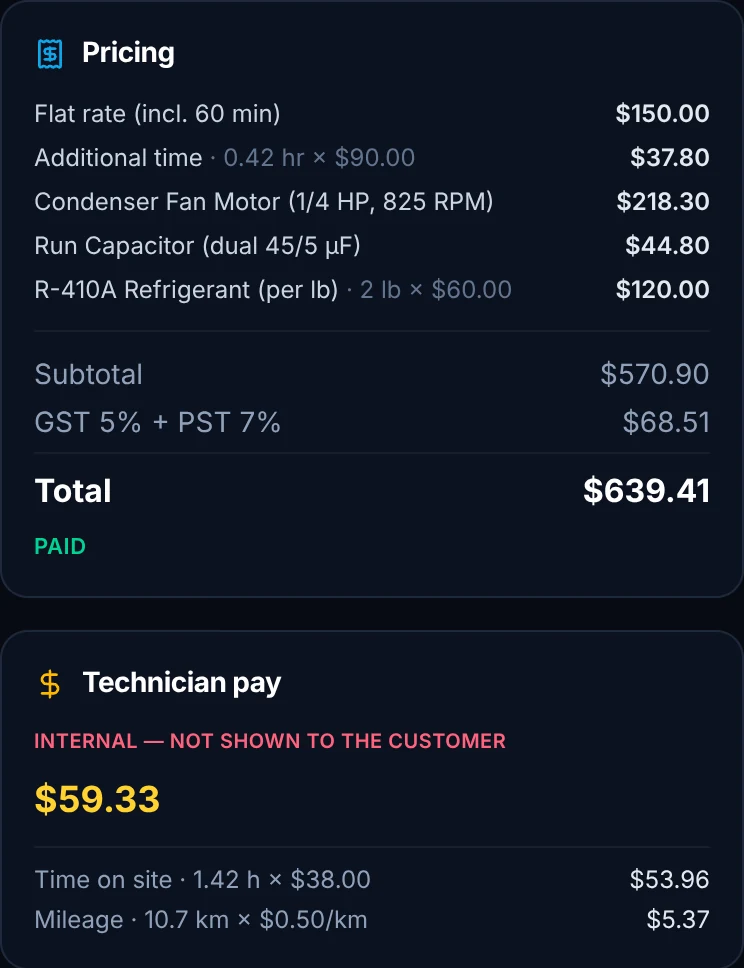
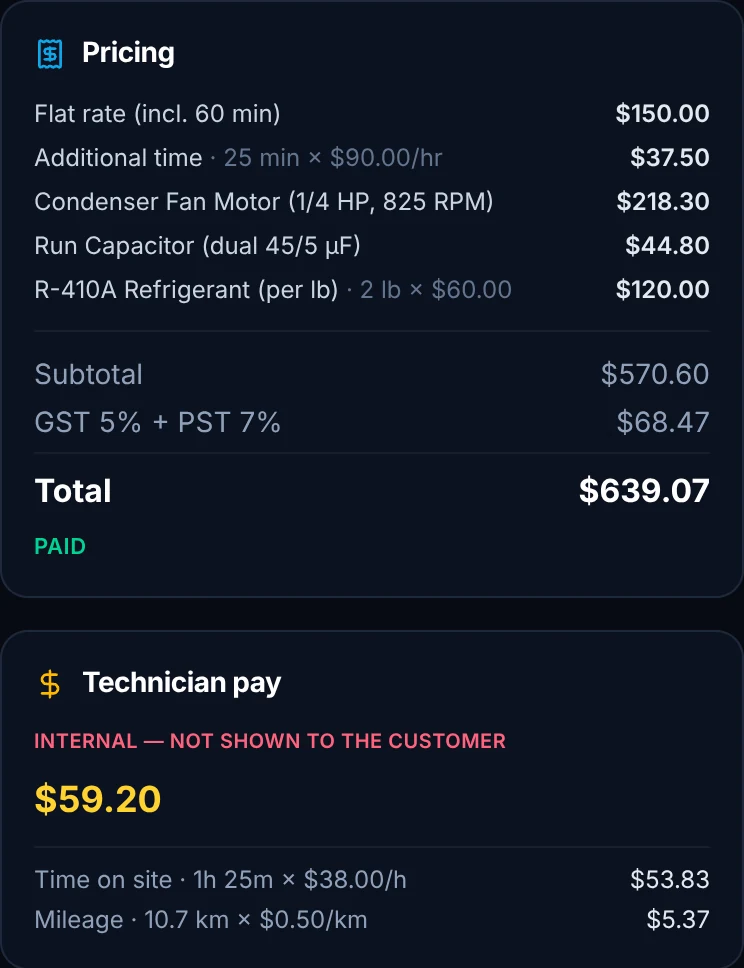
Bill and pay time to the exact minute, for every company
Time was rounded to two decimals of an hour before it was multiplied by
the rate, so 25 minutes at $90/h billed 0.42 h = $37.80 instead of
$37.50, and tech pay drifted the same way. Customer time lines (flat
fee overage, hourly, first hour / additional time) and hourly tech pay
now use minutes / 60 x rate, rounded once to the cent. Receipt lines
read "25 min x $90.00/hr" so the arithmetic still shows; the job
report's tech pay reads "1h 25m x $38.00/h".

Existing completed jobs keep their stored totals; new and recomputed
jobs use the exact rule. Features page pricing screens recaptured.

Claude-Session: https://claude.ai/code/session_01NbP46AD6FSM3TXQFTLdn6c

diff --git a/packages/web/src/shared/pricing.ts b/packages/web/src/shared/pricing.ts
@@ -63,6 +63,9 @@ export interface PriceLineItem {
   unit: string;
   rate: number;
   amount: number;
+  /** The unit `rate` is quoted in when it differs from `unit` — time is
+   *  counted in minutes but priced per hour ("25 min × $90.00/hr"). */
+  per?: string;
 }
 
 export interface PriceResult {
@@ -71,6 +74,18 @@ export interface PriceResult {
 }
 
 /** Compute the client subtotal (pre-tax) given a rate model + actuals. */
+/**
+ * A line for time billed at an hourly rate. Time is billed to the exact
+ * minute: the amount is minutes / 60 x rate, rounded once to the cent, and the
+ * line shows the minutes and the hourly rate ("25 min × $90.00/hr = $37.50").
+ * Rounding the hours first (0.42 h x $90 = $37.80) overcharged by up to a few
+ * cents per hour of rate on every job.
+ */
+function timeLine(label: string, minutes: number, hourlyRate: number): PriceLineItem {
+  const cents = (n: number) => Math.round(n * 100) / 100;
+  return { label, qty: cents(minutes), unit: "min", rate: hourlyRate, per: "hr", amount: cents((minutes / 60) * hourlyRate) };
+}
+
 export function computeSubtotal(
   rm: RateModel,
   actualMinutes: number,
@@ -104,25 +119,21 @@ export function computeSubtotal(
     if (billableMin > 0) {
       const firstMin = Math.min(billableMin, 60);
       const addlMin = Math.max(0, billableMin - 60);
-      const firstHrs = round(firstMin / 60);
-      const addlHrs = round(addlMin / 60);
       if (firstHrRate > 0 && firstMin > 0) {
-        items.push({ label: "First hour", qty: firstHrs, unit: "hr", rate: firstHrRate, amount: round(firstHrs * firstHrRate) });
+        items.push(timeLine("First hour", firstMin, firstHrRate));
       }
       if (addlHrRate > 0 && addlMin > 0) {
-        items.push({ label: "Additional time", qty: addlHrs, unit: "hr", rate: addlHrRate, amount: round(addlHrs * addlHrRate) });
+        items.push(timeLine("Additional time", addlMin, addlHrRate));
       } else if (addlMin > 0 && firstHrRate > 0) {
         // fallback: use firstHrRate for additional if additionalHourRate not set
-        items.push({ label: "Additional time", qty: addlHrs, unit: "hr", rate: firstHrRate, amount: round(addlHrs * firstHrRate) });
+        items.push(timeLine("Additional time", addlMin, firstHrRate));
       }
     }
   } else if (rm.timeRate > 0) {
     // simple flat hourly / per-minute
     const billableMin = Math.max(0, actualMinutes - rm.includedMinutes);
     if (rm.timeUnit === "hour") {
-      const hrs = round(billableMin / 60);
-      if (hrs > 0)
-        items.push({ label: "Additional time", qty: hrs, unit: "hr", rate: rm.timeRate, amount: round(hrs * rm.timeRate) });
+      if (billableMin > 0) items.push(timeLine("Additional time", billableMin, rm.timeRate));
     } else {
       if (billableMin > 0)
         items.push({ label: "Additional time", qty: round(billableMin), unit: "min", rate: rm.timeRate, amount: round(billableMin * rm.timeRate) });

diff --git a/packages/web/src/shared/__tests__/pricing.test.ts b/packages/web/src/shared/__tests__/pricing.test.ts
@@ -30,8 +30,7 @@ describe("computeSubtotal — time overage", () => {
     const r = computeSubtotal(rm({ flatRate: 50, includedMinutes: 60, timeRate: 120, timeUnit: "hour" }), 90, 0);
     expect(r.subtotal).toBe(110);
     const time = r.items.find((i) => i.label === "Additional time")!;
-    expect(time.qty).toBe(0.5);
-    expect(time.amount).toBe(60);
+    expect(time).toMatchObject({ qty: 30, unit: "min", rate: 120, per: "hr", amount: 60 });
   });
 
   it("bills per-minute overage when timeUnit is minute", () => {
@@ -68,6 +67,24 @@ describe("computeSubtotal — minimum charge floor", () => {
     const r = computeSubtotal(rm({ flatRate: 200, minCharge: 75 }), 0, 0);
     expect(r.subtotal).toBe(200);
     expect(r.items.find((i) => i.label === "Minimum charge adjustment")).toBeUndefined();
+  });
+});
+
+describe("computeSubtotal — billed to the exact minute", () => {
+  it("bills 25 minutes at $90/hr as $37.50, not 0.42 h ($37.80)", () => {
+    const r = computeSubtotal(rm({ flatRate: 150, includedMinutes: 60, timeRate: 90, timeUnit: "hour" }), 85, 0);
+    expect(r.items.find((i) => i.label === "Additional time")).toMatchObject({ qty: 25, unit: "min", amount: 37.5 });
+    expect(r.subtotal).toBe(187.5);
+  });
+  it("bills tiered first hour and additional time by the minute", () => {
+    const r = computeSubtotal(rm({ firstHourRate: 150, additionalHourRate: 95 }), 85, 0);
+    expect(r.items.find((i) => i.label === "First hour")!.amount).toBe(150);
+    // 25 min x $95/h = 39.5833 -> $39.58 (0.42 h would have been $39.90)
+    expect(r.items.find((i) => i.label === "Additional time")!.amount).toBe(39.58);
+  });
+  it("prorates a short first hour by the minute", () => {
+    const r = computeSubtotal(rm({ firstHourRate: 100 }), 20, 0);
+    expect(r.subtotal).toBe(33.33);
   });
 });
 

diff --git a/packages/web/src/web/site/content/features.ts b/packages/web/src/web/site/content/features.ts
@@ -158,7 +158,7 @@ export const screens: Record<string, Screen[]> = {
   price: [
     { src: S("price-rate"), w: 1120, h: 794, span: 6, alt: "ArrivePing customer pricing set to a flat fee: $150 that includes 60 minutes, then $90 an hour, with an optional mileage charge per km.", caption: "Customer pricing: a $150 service fee that includes the first hour, then $90 an hour." },
     { src: S("price-techpay"), w: 1120, h: 598, span: 6, alt: "ArrivePing technician pay for the same workflow: the technician's own hourly rate plus $0.50 per km of mileage, round trip.", caption: "Technician pay, set separately: their own hourly rate plus mileage." },
-    { src: S("price-job"), w: 744, h: 968, span: 5, alt: "A finished ArrivePing job: $150 flat rate including 60 minutes, $37.80 additional time, parts, total $639.41 paid, and technician pay of $59.33 split into time on site and mileage.", caption: "The finished job: billed by the rule, paid, and the technician's pay line by line." },
+    { src: S("price-job"), w: 744, h: 968, span: 5, alt: "A finished ArrivePing job: $150 flat rate including 60 minutes, 25 minutes of additional time at $90 an hour ($37.50), parts, total $639.07 paid, and technician pay of $59.20 split into time on site and mileage.", caption: "The finished job: billed by the rule, paid, and the technician's pay line by line." },
     { src: S("price-payouts"), w: 1800, h: 802, span: 7, alt: "ArrivePing technician payouts for the week with hourly, mileage, flat and per-unit pay for each technician, and one job's breakdown expanded.", caption: "Payouts: hourly, mileage, flat and per-unit pay, job by job." },
   ],
   start: [

diff --git a/packages/web/src/web/pages/admin/job-report.tsx b/packages/web/src/web/pages/admin/job-report.tsx
@@ -401,7 +401,7 @@ export default function JobReportPage() {
                     <span className="text-slate-300">
                       {it.label}
                       {it.unit && it.unit !== "job" && it.unit !== "each" && (
-                        <span className="text-slate-500"> · {it.qty} {it.unit} × {money(it.rate ?? 0)}</span>
+                        <span className="text-slate-500"> · {it.qty} {it.unit} × {money(it.rate ?? 0)}{it.per ? `/${it.per}` : ""}</span>
                       )}
                       {(it.unit === "each" || it.unit === "job") && Number(it.qty) > 1 && <span className="text-slate-500"> · {it.qty} ×</span>}
                     </span>
@@ -433,7 +433,7 @@ export default function JobReportPage() {
             {pay && (
               <div className="mt-2 space-y-1 border-t border-white/5 pt-2 text-xs">
                 {Number(pay.hourlyPay) > 0 && (
-                  <div className="flex justify-between text-slate-400"><span>Time on site · {pay.hours} h × {money(pay.payRatePerHour)}</span><span className="text-slate-200">{money(pay.hourlyPay)}</span></div>
+                  <div className="flex justify-between text-slate-400"><span>Time on site · {fmtMins(Math.round(Number(pay.onSiteMinutes) || 0))} × {money(pay.payRatePerHour)}/h</span><span className="text-slate-200">{money(pay.hourlyPay)}</span></div>
                 )}
                 {Number(pay.mileagePay) > 0 && (
                   <div className="flex justify-between text-slate-400">

diff --git a/packages/web/src/shared/__tests__/tech-pay.test.ts b/packages/web/src/shared/__tests__/tech-pay.test.ts
@@ -32,11 +32,11 @@ describe("computeTechPay — hourly on-site time + per-unit pay", () => {
     expect(r.techPay).toBe(50);
   });
 
-  it("rounds money to cents, never to a fraction of a cent", () => {
-    // 50 min @ $37/h = 0.83h * 37 = 30.71 (0.8333.. rounded to 2dp first)
+  it("pays to the exact minute, rounded once to the cent", () => {
+    // 50 min @ $37/h = 30.8333.. -> $30.83 (0.83 h first would have paid $30.71)
     const r = computeTechPay({ ...base, onSiteMinutes: 50, payRatePerHour: 37 });
     expect(r.hours).toBe(0.83);
-    expect(r.hourlyPay).toBe(30.71);
+    expect(r.hourlyPay).toBe(30.83);
   });
 
   it("flags a job as unrated when there is no hourly rate and no per-unit pay", () => {
@@ -125,7 +125,7 @@ describe("client pricing — $150 service fee that includes the first 60 minutes
     expect(computeSubtotal(rule, 60, 0).subtotal).toBe(150);
   });
   it("charges the hourly rate only for time past the included hour", () => {
-    // 85 min: $150 + 25 min (0.42 h) x $90
-    expect(computeSubtotal(rule, 85, 0).subtotal).toBe(187.8);
+    // 85 min: $150 + 25 min x $90/h, billed to the minute
+    expect(computeSubtotal(rule, 85, 0).subtotal).toBe(187.5);
   });
 });

diff --git a/packages/web/src/shared/tech-pay.ts b/packages/web/src/shared/tech-pay.ts
@@ -74,8 +74,10 @@ function safe(v: unknown): number {
 export function computeTechPay(input: TechPayInput): TechPayResult {
   const payRatePerHour = safe(input.payRatePerHour);
   const minutes = safe(input.onSiteMinutes);
+  // Paid to the exact minute (minutes / 60 x rate, rounded once to the cent),
+  // the same rule customers are billed by. `hours` is for display only.
   const hours = round2(minutes / 60);
-  const hourlyPay = round2(hours * payRatePerHour);
+  const hourlyPay = round2((minutes / 60) * payRatePerHour);
   // sumUnitLinePay can go negative if someone entered a negative unit cost;
   // clamp so a bad line can't reduce pay earned on other jobs in the period.
   const unitPay = Math.max(0, sumUnitLinePay(input.lineItems ?? []));

diff --git a/packages/web/src/api/routes/__tests__/dispatch-and-payouts.test.ts b/packages/web/src/api/routes/__tests__/dispatch-and-payouts.test.ts
@@ -377,10 +377,10 @@ describe("POST /payouts/generate — real tech pay", () => {
     expect(res.status).toBe(201);
     const rows = await payoutRows();
     expect(rows.length).toBe(1);
-    expect(rows[0].hourly_pay).toBe(13.2); // 0.33h × $40
+    expect(rows[0].hourly_pay).toBe(13.33); // 20 min × $40/h, to the minute
     expect(rows[0].unit_pay).toBe(0);
-    expect(rows[0].net).toBe(13.2);
-    expect(rows[0].gross).toBe(13.2);
+    expect(rows[0].net).toBe(13.33);
+    expect(rows[0].gross).toBe(13.33);
     // No platform fee in the real-pay model.
     expect(rows[0].fee).toBe(0);
     expect(rows[0].fee_pct).toBe(0);
